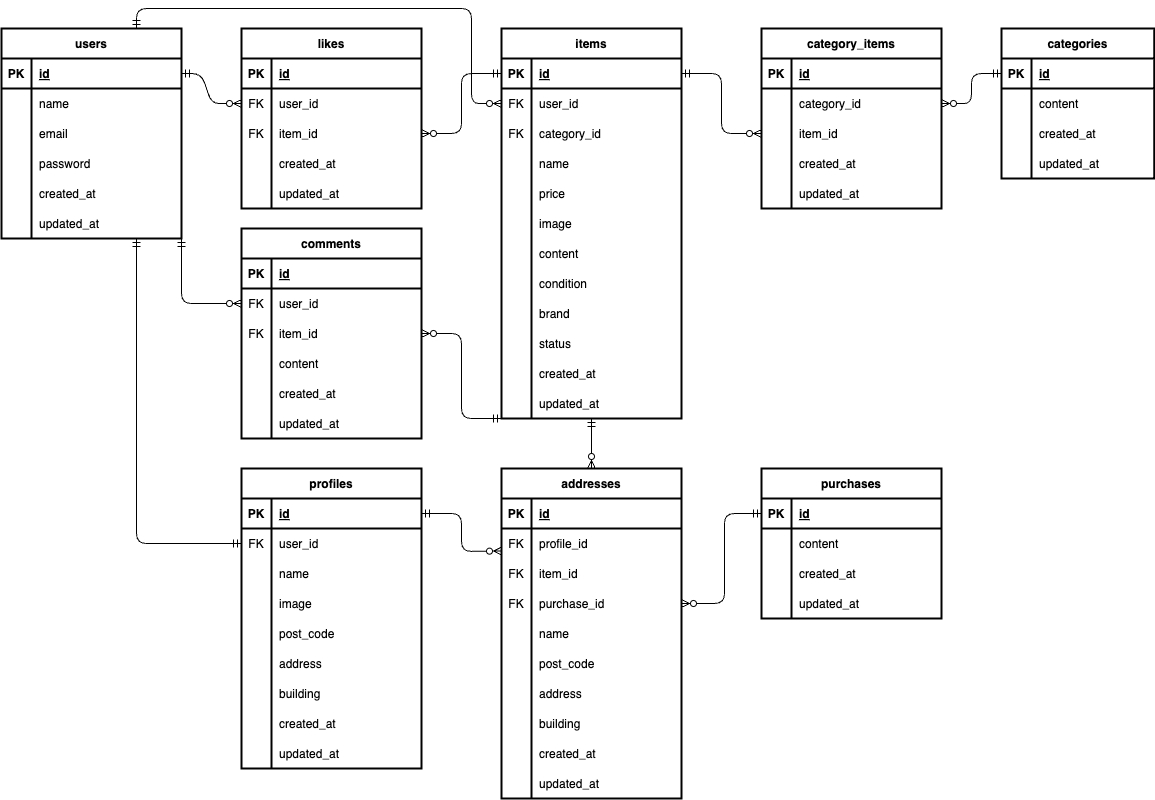
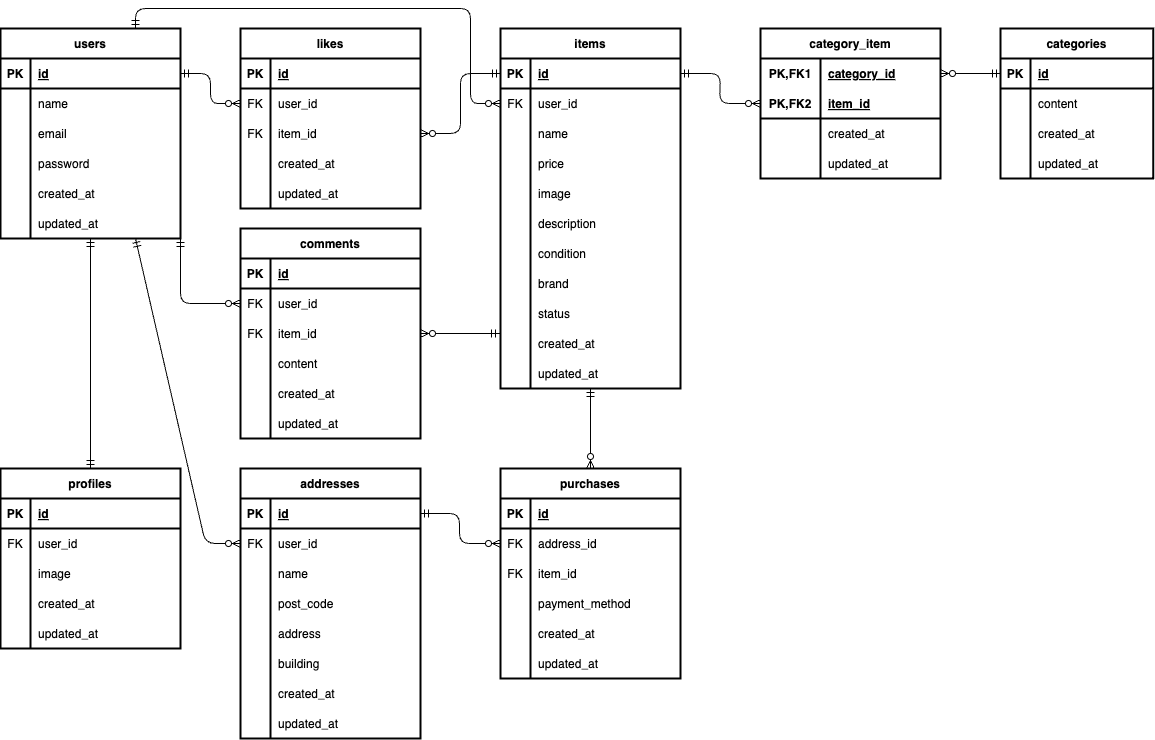
モデルへのリレーションの作成

diff --git a/src/database/migrations/2025_01_21_141000_create_purchases_table.php b/src/database/migrations/2025_01_21_141000_create_purchases_table.php
@@ -4,7 +4,7 @@ use Illuminate\Database\Migrations\Migration;
 use Illuminate\Database\Schema\Blueprint;
 use Illuminate\Support\Facades\Schema;
 
-class CreateCategoryItemsTable extends Migration
+class CreatePurchasesTable extends Migration
 {
     /**
      * Run the migrations.
@@ -13,12 +13,12 @@ class CreateCategoryItemsTable extends Migration
      */
     public function up()
     {
-        Schema::create('category_items', function (Blueprint $table) {
+        Schema::create('purchases', function (Blueprint $table) {
             $table->id();
-            $table->foreignId('category_id')->constrained()->cascadeOnDelete();
+            $table->foreignId('address_id')->constrained()->cascadeOnDelete();
             $table->foreignId('item_id')->constrained()->cascadeOnDelete();
-            $table->timestamp('created_at')->useCurrent()->nullable();
-            $table->timestamp('updated_at')->useCurrent()->nullable();
+            $table->tinyInteger('payment_method')->comment('1:コンビニ支払い, 2:カード支払い');
+            $table->timestamps();
         });
     }
 
@@ -29,6 +29,6 @@ class CreateCategoryItemsTable extends Migration
      */
     public function down()
     {
-        Schema::dropIfExists('category_items');
+        Schema::dropIfExists('purchases');
     }
 }

diff --git a/src/database/migrations/2025_01_21_140000_create_addresses_table.php b/src/database/migrations/2025_01_21_140000_create_addresses_table.php
@@ -4,7 +4,7 @@ use Illuminate\Database\Migrations\Migration;
 use Illuminate\Database\Schema\Blueprint;
 use Illuminate\Support\Facades\Schema;
 
-class CreateCommentsTable extends Migration
+class CreateAddressesTable extends Migration
 {
     /**
      * Run the migrations.
@@ -13,13 +13,14 @@ class CreateCommentsTable extends Migration
      */
     public function up()
     {
-        Schema::create('comments', function (Blueprint $table) {
+        Schema::create('addresses', function (Blueprint $table) {
             $table->id();
             $table->foreignId('user_id')->constrained()->cascadeOnDelete();
-            $table->foreignId('item_id')->constrained()->cascadeOnDelete();
-            $table->text('content');
-            $table->timestamp('created_at')->useCurrent()->nullable();
-            $table->timestamp('updated_at')->useCurrent()->nullable();
+            $table->string('name');
+            $table->string('post_code');
+            $table->string('address');
+            $table->string('building');
+            $table->timestamps();
         });
     }
 
@@ -30,6 +31,6 @@ class CreateCommentsTable extends Migration
      */
     public function down()
     {
-        Schema::dropIfExists('comments');
+        Schema::dropIfExists('addresses');
     }
 }

diff --git a/src/database/migrations/2025_01_21_142000_create_likes_table.php b/src/database/migrations/2025_01_21_142000_create_likes_table.php
@@ -4,7 +4,7 @@ use Illuminate\Database\Migrations\Migration;
 use Illuminate\Database\Schema\Blueprint;
 use Illuminate\Support\Facades\Schema;
 
-class CreatePurchasesTable extends Migration
+class CreateLikesTable extends Migration
 {
     /**
      * Run the migrations.
@@ -13,11 +13,11 @@ class CreatePurchasesTable extends Migration
      */
     public function up()
     {
-        Schema::create('purchases', function (Blueprint $table) {
+        Schema::create('likes', function (Blueprint $table) {
             $table->id();
-            $table->string('content');
-            $table->timestamp('created_at')->useCurrent()->nullable();
-            $table->timestamp('updated_at')->useCurrent()->nullable();
+            $table->foreignId('user_id')->constrained()->cascadeOnDelete();
+            $table->foreignId('item_id')->constrained()->cascadeOnDelete();
+            $table->timestamps();
         });
     }
 
@@ -28,6 +28,6 @@ class CreatePurchasesTable extends Migration
      */
     public function down()
     {
-        Schema::dropIfExists('purchases');
+        Schema::dropIfExists('likes');
     }
 }

diff --git a/src/database/migrations/2025_01_21_135903_create_items_table.php b/src/database/migrations/2025_01_21_135903_create_items_table.php
@@ -16,16 +16,14 @@ class CreateItemsTable extends Migration
         Schema::create('items', function (Blueprint $table) {
             $table->id();
             $table->foreignId('user_id')->constrained()->cascadeOnDelete();
-            $table->foreignId('category_id')->constrained()->cascadeOnDelete();
             $table->string('name');
             $table->integer('price');
             $table->string('image');
-            $table->text('content');
-            $table->string('condition');
+            $table->text('description');
+            $table->tinyInteger('condition')->comment('1:良好, 2:目立った傷や汚れなし, 3:やや傷や汚れあり, 4:状態が悪い');
             $table->string('brand')->nullable();
-            $table->tinyInteger('status')->comment('1:販売中 2:売り切れ');
-            $table->timestamp('created_at')->useCurrent()->nullable();
-            $table->timestamp('updated_at')->useCurrent()->nullable();
+            $table->tinyInteger('status')->default(1)->comment('1:販売中, 2:売り切れ');
+            $table->timestamps();
         });
     }
 

diff --git a/src/database/migrations/2025_01_21_143000_create_comments_table.php b/src/database/migrations/2025_01_21_143000_create_comments_table.php
@@ -4,7 +4,7 @@ use Illuminate\Database\Migrations\Migration;
 use Illuminate\Database\Schema\Blueprint;
 use Illuminate\Support\Facades\Schema;
 
-class CreateLikesTable extends Migration
+class CreateCommentsTable extends Migration
 {
     /**
      * Run the migrations.
@@ -13,12 +13,12 @@ class CreateLikesTable extends Migration
      */
     public function up()
     {
-        Schema::create('likes', function (Blueprint $table) {
+        Schema::create('comments', function (Blueprint $table) {
             $table->id();
             $table->foreignId('user_id')->constrained()->cascadeOnDelete();
             $table->foreignId('item_id')->constrained()->cascadeOnDelete();
-            $table->timestamp('created_at')->useCurrent()->nullable();
-            $table->timestamp('updated_at')->useCurrent()->nullable();
+            $table->text('content');
+            $table->timestamps();
         });
     }
 
@@ -29,6 +29,6 @@ class CreateLikesTable extends Migration
      */
     public function down()
     {
-        Schema::dropIfExists('likes');
+        Schema::dropIfExists('comments');
     }
 }

diff --git a/src/database/migrations/2025_01_21_193000_create_category_item_table.php b/src/database/migrations/2025_01_21_193000_create_category_item_table.php
@@ -4,7 +4,7 @@ use Illuminate\Database\Migrations\Migration;
 use Illuminate\Database\Schema\Blueprint;
 use Illuminate\Support\Facades\Schema;
 
-class CreateCategoriesTable extends Migration
+class CreateCategoryItemTable extends Migration
 {
     /**
      * Run the migrations.
@@ -13,9 +13,10 @@ class CreateCategoriesTable extends Migration
      */
     public function up()
     {
-        Schema::create('categories', function (Blueprint $table) {
-            $table->id();
-            $table->string('content');
+        Schema::create('category_item', function (Blueprint $table) {
+            $table->foreignId('category_id')->constrained()->cascadeOnDelete();
+            $table->foreignId('item_id')->constrained()->cascadeOnDelete();
+            $table->primary(['category_id', 'item_id']);
             $table->timestamps();
         });
     }
@@ -27,6 +28,6 @@ class CreateCategoriesTable extends Migration
      */
     public function down()
     {
-        Schema::dropIfExists('categories');
+        Schema::dropIfExists('category_item');
     }
 }

diff --git a/src/database/migrations/2025_01_21_135736_create_profiles_table.php b/src/database/migrations/2025_01_21_135736_create_profiles_table.php
@@ -16,13 +16,8 @@ class CreateProfilesTable extends Migration
         Schema::create('profiles', function (Blueprint $table) {
             $table->id();
             $table->foreignId('user_id')->constrained()->cascadeOnDelete();
-            $table->string('name')->nullable();
             $table->string('image')->nullable();
-            $table->string('post_code')->nullable();
-            $table->string('address')->nullable();
-            $table->string('building')->nullable();
-            $table->timestamp('created_at')->useCurrent()->nullable();
-            $table->timestamp('updated_at')->useCurrent()->nullable();
+            $table->timestamps();
         });
     }
 

diff --git a/src/app/Models/Item.php b/src/app/Models/Item.php
@@ -8,4 +8,33 @@ use Illuminate\Database\Eloquent\Model;
 class Item extends Model
 {
     use HasFactory;
+
+    protected $guarded = [
+        'id',
+    ];
+
+    public function user()
+    {
+        return $this->belongsTo(User::class);
+    }
+
+    public function purchases()
+    {
+        return $this->hasMany(Purchase::class);
+    }
+
+    public function likes()
+    {
+        return $this->hasMany(Like::class);
+    }
+
+    public function comments()
+    {
+        return $this->hasMany(Comment::class);
+    }
+
+    public function categories()
+    {
+        return $this->belongsToMany(Category::class, 'category_item');
+    }
 }

diff --git a/src/app/Models/User.php b/src/app/Models/User.php
@@ -41,4 +41,29 @@ class User extends Authenticatable
     protected $casts = [
         'email_verified_at' => 'datetime',
     ];
+
+    public function profile()
+    {
+        return $this->hasOne(Profile::class);
+    }
+
+    public function addresses()
+    {
+        return $this->hasMany(Address::class);
+    }
+
+    public function items()
+    {
+        return $this->hasMany(Item::class);
+    }
+
+    public function likes()
+    {
+        return $this->hasMany(Like::class);
+    }
+
+    public function comments()
+    {
+        return $this->hasMany(Comment::class);
+    }
 }

diff --git a/src/database/migrations/2014_10_12_000000_create_users_table.php b/src/database/migrations/2014_10_12_000000_create_users_table.php
@@ -15,7 +15,7 @@ class CreateUsersTable extends Migration
     {
         Schema::create('users', function (Blueprint $table) {
             $table->id();
-            $table->string('name');
+            $table->string('name')->nullable();
             $table->string('email')->unique();
             $table->timestamp('email_verified_at')->nullable();
             $table->string('password');

diff --git a/src/app/Models/Address.php b/src/app/Models/Address.php
@@ -8,4 +8,18 @@ use Illuminate\Database\Eloquent\Model;
 class Address extends Model
 {
     use HasFactory;
+
+    protected $guarded = [
+        'id',
+    ];
+
+    public function user()
+    {
+        return $this->belongsTo(User::class);
+    }
+
+    public function purchases()
+    {
+        return $this->hasMany(Purchase::class);
+    }
 }

diff --git a/src/app/Models/Purchase.php b/src/app/Models/Purchase.php
@@ -8,4 +8,18 @@ use Illuminate\Database\Eloquent\Model;
 class Purchase extends Model
 {
     use HasFactory;
+
+    protected $guarded = [
+        'id',
+    ];
+
+    public function address()
+    {
+        return $this->belongsTo(Address::class);
+    }
+
+    public function item()
+    {
+        return $this->belongsTo(Item::class);
+    }
 }
